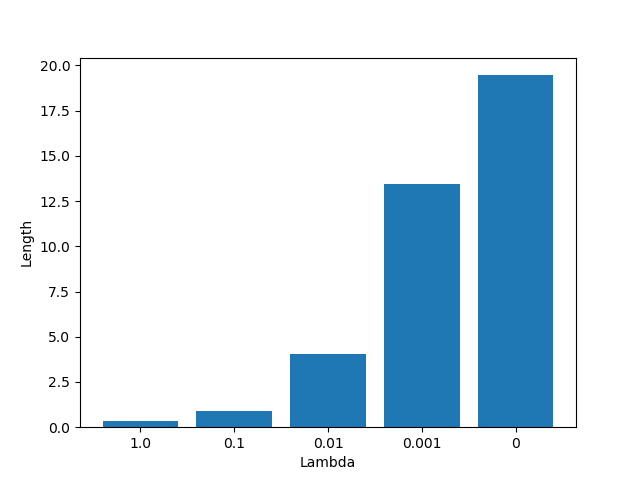
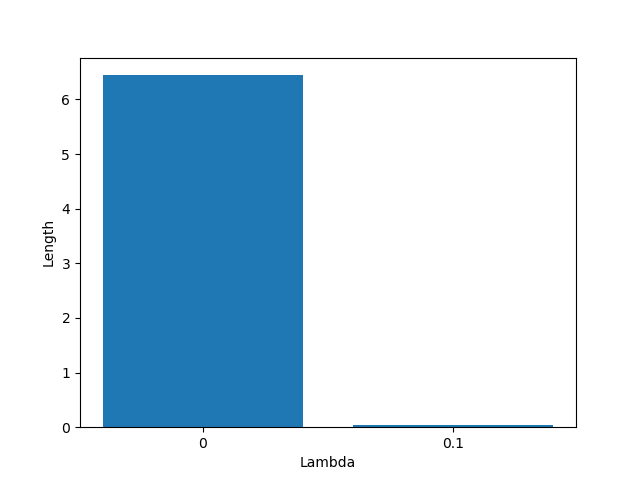
finished task 4 hopefully

diff --git a/assignment1/task4.py b/assignment1/task4.py
@@ -5,8 +5,7 @@ from task2a import pre_process_images
 from task4a import cross_entropy_loss, SoftmaxModel, one_hot_encode
 np.random.seed(0)
 
-
-
+NUM_OUTPUTS = 10
 
 def calculate_accuracy(X: np.ndarray, targets: np.ndarray, model: SoftmaxModel) -> float: 
     """
@@ -33,7 +32,7 @@ def train(
         num_epochs: int,
         learning_rate: float,
         batch_size: int,
-        l2_reg_lambda: float # Task 3 hyperparameter
+        l2_reg_lambda: float
         ):
     global X_train, X_val, X_test
     # Utility variables
@@ -67,7 +66,8 @@ def train(
             train_loss[global_step] = _train_loss
             # Track validation loss / accuracy every time we progress 20% through the dataset
             if global_step % num_steps_per_val == 0:
-                _val_loss = 0
+                val_outputs = model.forward(X_val)
+                _val_loss = cross_entropy_loss(Y_val, val_outputs)
                 val_loss[global_step] = _val_loss
 
                 train_accuracy[global_step] = calculate_accuracy(
@@ -88,15 +88,98 @@ X_train = pre_process_images(X_train)
 X_val = pre_process_images(X_val)
 X_test = pre_process_images(X_test)
 
-Y_train = one_hot_encode(Y_train, 10)
-Y_val = one_hot_encode(Y_val, 10)
-Y_test = one_hot_encode(Y_test, 10)
+Y_train = one_hot_encode(Y_train, NUM_OUTPUTS)
+Y_val = one_hot_encode(Y_val, NUM_OUTPUTS)
+Y_test = one_hot_encode(Y_test, NUM_OUTPUTS)
 
+lambda_values = [0, 0.1]
+lambda_validation_accuracies = []
+weight_lengths = []
+weights_as_images = []
+
+for l2_reg_lambda in lambda_values:
+    # hyperparameters
+    num_epochs = 50
+    learning_rate = 0.2
+    batch_size = 128
+    
+    model, train_loss, val_loss, train_accuracy, val_accuracy = train(
+        num_epochs=num_epochs,
+        learning_rate=learning_rate,
+        batch_size=batch_size,
+        l2_reg_lambda=l2_reg_lambda)
+
+    print("========== lambda:", str(l2_reg_lambda), "==========")
+    print("Final Train Cross Entropy Loss:",
+        cross_entropy_loss(Y_train, model.forward(X_train)))
+    print("Final Validation Cross Entropy Loss:",
+        cross_entropy_loss(Y_test, model.forward(X_test)))
+    print("Final Test Cross Entropy Loss:",
+        cross_entropy_loss(Y_val, model.forward(X_val)))
+
+    print("Train accuracy:", calculate_accuracy(X_train, Y_train, model))
+    print("Validation accuracy:", calculate_accuracy(X_val, Y_val, model))
+    print("Test accuracy:", calculate_accuracy(X_test, Y_test, model))
+
+    lambda_validation_accuracies.append(val_accuracy)
+    length = model.w.transpose().dot(model.w)[0][0]
+    weight_lengths.append(length)
+    
+    image = np.zeros((28,0))
+    for i in range(NUM_OUTPUTS):
+        digitImage = model.w[:-1, i].reshape(28, 28)
+        image = np.hstack((image, digitImage))
+        
+    weights_as_images.append(image)
+
+    '''# Plot loss
+    plt.ylim([0., .4]) 
+    utils.plot_loss(train_loss, "Training Loss")
+    utils.plot_loss(val_loss, "Validation Loss")
+    plt.legend()
+    plt.savefig("binary_train_loss_" + str(l2_reg_lambda) + ".png")
+    plt.show()
+    # Plot accuracy
+    plt.ylim([0.93, .99])
+    utils.plot_loss(train_accuracy, "Training Accuracy")
+    utils.plot_loss(val_accuracy, "Validation Accuracy")
+    plt.legend()
+    plt.savefig("binary_train_accuracy_" + str(l2_reg_lambda) + ".png")
+    plt.show()'''
+
+
+
+plt.ylim([0.6, 0.95])
+for (l2_reg_lambda, accuracies) in zip(lambda_values, lambda_validation_accuracies):
+    utils.plot_loss(accuracies, str(l2_reg_lambda))
+plt.legend(title="Lambda")
+plt.savefig("binary_train_accuracy_regularization.png")
+plt.show()
+
+ind = np.arange(lambda_values.__len__())
+plt.bar(ind, weight_lengths)
+plt.xticks(ind, lambda_values)
+plt.ylabel("Length")
+plt.xlabel("Lambda")
+plt.savefig("binary_train_weight_length.png")
+plt.show()
+
+fig, ax = plt.subplots(1, lambda_values.__len__(), subplot_kw={'xticks': [], 'yticks': []})
+for (ax, img, l2_reg_lambda) in zip(ax.flat, weights_as_images, lambda_values):
+    ax.imshow(img, cmap="gray")
+    ax.set_title(str(l2_reg_lambda))
+plt.savefig("binary_train_weight_image.png")
+plt.show()
+
+
+
+"""
 # Hyperparameters
 num_epochs = 50
 learning_rate = .3
 batch_size = 128
 l2_reg_lambda = 0.001
+
 
 model, train_loss, val_loss, train_accuracy, val_accuracy = train(
     num_epochs=num_epochs,
@@ -132,5 +215,6 @@ utils.plot_loss(train_accuracy, "Training Accuracy")
 utils.plot_loss(val_accuracy, "Validation Accuracy")
 plt.legend()
 plt.show()
+"""
 
 

diff --git a/assignment1/task4a.py b/assignment1/task4a.py
@@ -58,16 +58,7 @@ class SoftmaxModel:
         assert self.grad.shape == self.w.shape
         
         N = X.shape[0]
-        self.grad = -X.transpose().dot(targets - outputs) / (self.num_outputs * N)
-        
-        # w 785x10
-        # Testing stuff
-        """
-        grad2 = np.zeros_like(self.w)
-        for j in range(self.w.shape[0]):
-            for k in range(self.w.shape[1]):
-                grad2[j,k] = (-1/self.num_outputs) * X.transpose()[j].dot(targets.transpose()[k] - outputs.transpose()[k])
-        """
+        self.grad = -X.transpose().dot(targets - outputs) / (self.num_outputs * N) + self.l2_reg_lambda * 2 * self.w
 
     def zero_grad(self) -> None:
         self.grad = None
